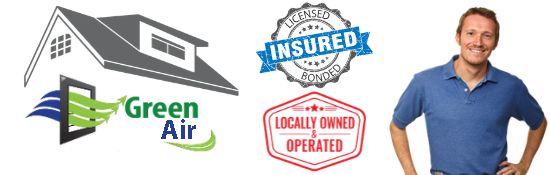
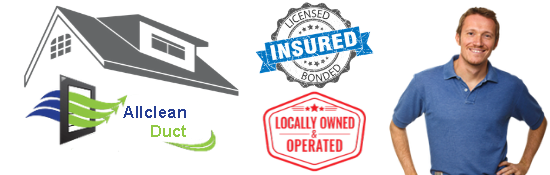
Update

Changed region(s): [[0.2164, 0.5429, 0.3709, 0.8]]

diff --git a/src/App.js b/src/App.js
@@ -26,8 +26,8 @@ function App() {
           <div className="contact-cards">
             <div>
               <h4>Contact</h4>
-              <a href="tel:12402450909" className='main-btn'>Call Now</a>
-              <p className='tel'>(240) 245 09 09</p>
+              <a href="tel:12405824243" className='main-btn'>Call Now</a>
+              <p className='tel'>(240) 582 42 43</p>
             </div>
             <div>
               <h4>Business Hours</h4>
@@ -45,7 +45,7 @@ function App() {
 				</section>
 			</Container>
       <footer>
-        Green Services &copy; 2015
+        Allclean Duct &copy; 2015
       </footer>
 		</div>
 	)

diff --git a/src/components/Updates.js b/src/components/Updates.js
@@ -1,7 +1,7 @@
 import React from 'react'
 
 import img3 from '../images/3.jpg'
-import img4 from '../images/4.jpg'
+import img4 from '../images/dryer.jpg'
 
 const Updates = () => {
 	return (
@@ -44,7 +44,7 @@ const Updates = () => {
 					</ul>
 				</div>
 				<div className="updates_card">
-					<img src={img3} alt="" />
+					<img src={img4} alt="" />
 					<h4>$395 Air Duct and Dryer Vent Cleaning</h4>
 					<ul className="updates_card-content">
 						<li>Cleaning all supply vents</li>
